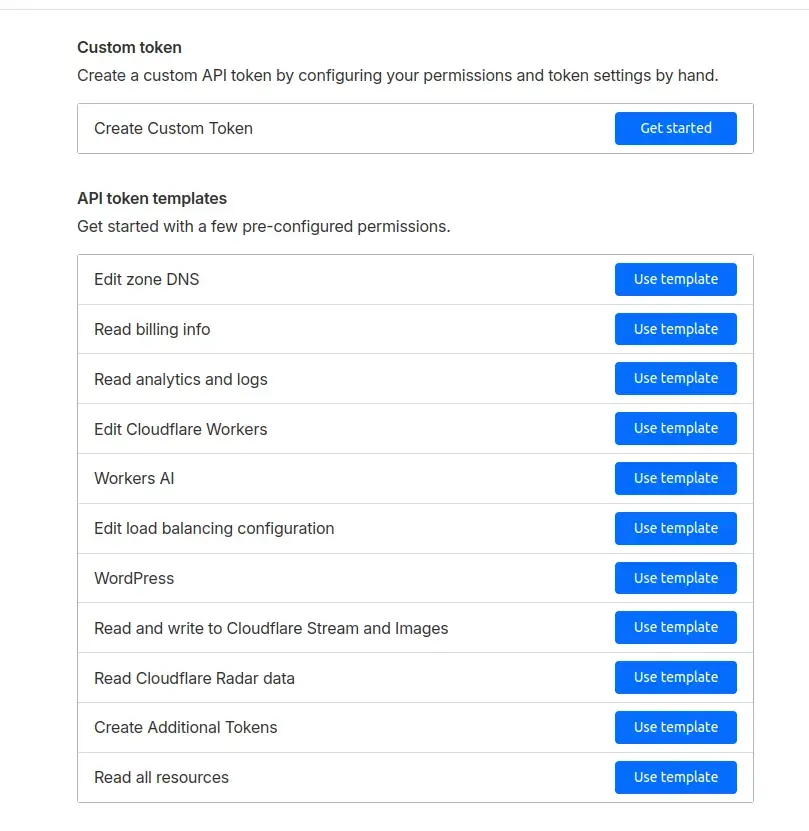
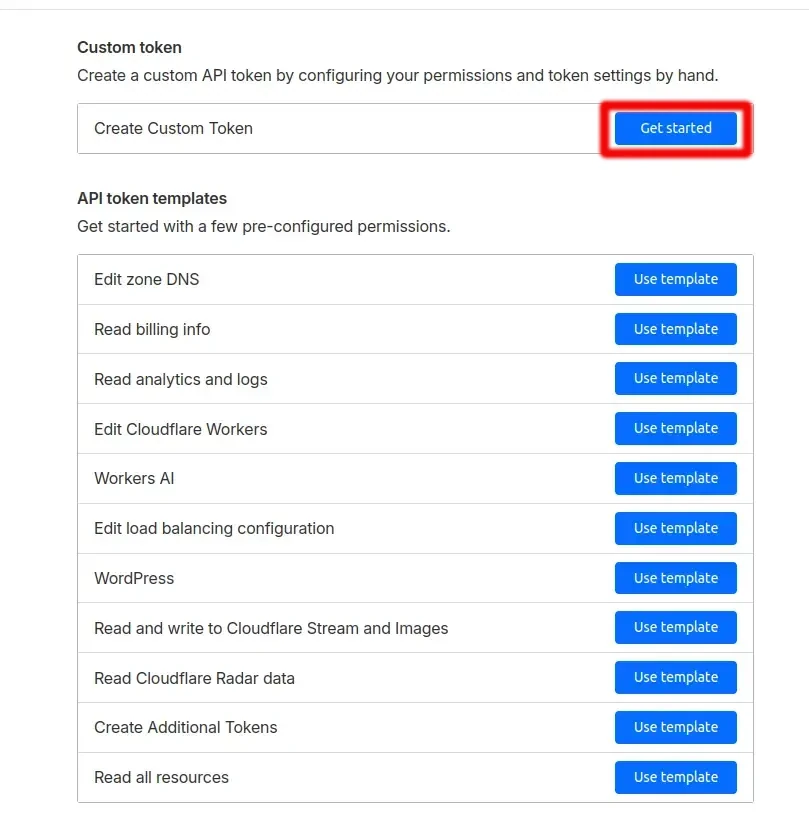
Added a TrueNAS acme certificate page

Changed region(s): [[0.7108, 0.1203, 0.958, 0.2106]]

diff --git a/_posts/2026-09-17-Lets-Encrypt-Certificate-for-TrueNAS-Scale.md b/_posts/2026-09-17-Lets-Encrypt-Certificate-for-TrueNAS-Scale.md
@@ -1,0 +1,99 @@
+---
+title: Lets Encrypt on TrueNAS Scale
+date: 2026-09-17
+draft: false
+categories: [Homelab, TrueNAS Scale, Lets Encrypt]
+tags: [homelab, truenas Scale, lets encrypt]     # TAG names should always be lowercase
+image: 
+   path: ../assets/img/posts/2026/2026-09-17-Lets-Encrypt-Certificates-for-TrueNAS/header.webp
+---
+
+## Introduction
+
+TrueNAS SCALE/Community Edition include the ability obtain a trusted TLS certificate from Let's Encrypt and keep it up to date automatically. If you meet the requirements below, this is probably the easiest way to keep an up-to-date, trusted certificate for your NAS.
+
+## Prerequisites
+
+1. You must own or control an actual publicly registered domain. That domain doesn't need to be accessible from the public Internet, but it must have public-facing DNS records. This guide will use example.com as a placeholder for your domain.
+2. The ability to add internal DNS records for your registered domain via your router, or your internal DNS setup. e.g _truenas.example.com_
+3. You must host your domain's DNS at Cloudflare. Cloudflare provides free DNS hosting, among many other services (not all of which are free).
+4. Your DNS provider matters because we're going to be obtaining certificates from Let's Encrypt, and that requires they validate your control over your domain.
+5. TrueNAS Scale needs to be on a fairly recent version such as 25.10.7 - Goldeye, you may find that it work fine on older version, as I've not tested that, so your milage may vary.
+
+## Instructions
+
+### Cloudflare API Token
+
+1. Go to [https://dash.cloudflare.com/profile/api-tokens](https://dash.cloudflare.com/profile/api-tokens)
+2. Click on your domain (if you have more than one)
+3. Click "Get API Token"
+4. Click on "Create Custom Token"
+
+![Custom API Token](../assets/img/posts/2026/2026-09-17-Lets-Encrypt-Certificates-for-TrueNAS/Custom_Token.webp)
+5. Set permissions
+
+    Zone:DNS:Edit
+
+![Use API Token](../assets/img/posts/2026/2026-09-17-Lets-Encrypt-Certificates-for-TrueNAS/Use_API_Token.webp)
+
+![Valid API token for Caddy](../assets/img/posts/2026/2026-09-17-Lets-Encrypt-Certificates-for-TrueNAS/Valid_API_Token.webp)
+
+__Take a Note__ of the _Cloudflare API Token_ as you will need it later when setting up TrueNAS.
+
+### Setting up TrueNAS
+
+1. Make sure to you do the following prep on your home network.
+   - Ensure you've allocated a static IP address to your TrueNAS server.
+   - Allocate a DNS name to your TrueNAS install e.g _truenas.example.com_.
+
+2. Change the general network settings (System -> Network -> Network Configuration -> Settings) on TrueNAS to reflect the setup above.
+![Global Settings](../assets/img/posts/2026/2026-09-17-Lets-Encrypt-Certificates-for-TrueNAS/Global_Settings.webp)
+3. In the TrueNAS Web UI, browse to Credentials -> Certificates.
+![Credentials Certificates](../assets/img/posts/2026/2026-09-17-Lets-Encrypt-Certificates-for-TrueNAS/Credentials-Certificates.webp)
+4. Next to ACME DNS-Authenticators, click Add.
+![Acme DNS-Authenticators](../assets/img/posts/2026/2026-09-17-Lets-Encrypt-Certificates-for-TrueNAS/ACME-DNS-Authenticator.webp)
+5. Name the authenticator as desired, and set Authenticator to match your DNS host. Then enter the required credentials, which will depend on your DNS host. For Cloudflare, enter your API Token. The token should have permissions of Zone / DNS / Edit for the domain you're requesting. The complete form will look like this.
+![Cloudflare API Token](../assets/img/posts/2026/2026-09-17-Lets-Encrypt-Certificates-for-TrueNAS/Add_DNS_Authenticator.webp)
+Click on Save
+
+6. Next, create a CSR. Next to Certificate Signing Requests, click Add.
+![Certificate Signing Request](../assets/img/posts/2026/2026-09-17-Lets-Encrypt-Certificates-for-TrueNAS/Certificate_Signing_Request.webp)
+
+Under Identifier and Type, enter a name as desired, leave the Type set to Certificate Signing Request, and set Profile to one of the HTTPS options.
+
+![Certificate Signing Request](../assets/img/posts/2026/2026-09-17-Lets-Encrypt-Certificates-for-TrueNAS/CSR_Fig_1.webp)
+
+![Certificate Signing Request](../assets/img/posts/2026/2026-09-17-Lets-Encrypt-Certificates-for-TrueNAS/CSR_Fig_2.webp)
+
+![Certificates Signing Request](../assets/img/posts/2026/2026-09-17-Lets-Encrypt-Certificates-for-TrueNAS/CSR_Fig_3.webp)
+
+![Certificates Signing Request](../assets/img/posts/2026/2026-09-17-Lets-Encrypt-Certificates-for-TrueNAS/CSR_Fig_4.webp)
+
+Click on __Next__, 5. Confirm Options then Save
+
+Now we can request the certificate itself. Click on the wrench to the right of your newly-created CSR
+![Create Acme Certificate](../assets/img/posts/2026/2026-09-17-Lets-Encrypt-Certificates-for-TrueNAS/Create_Acme_Certificate.webp)
+
+Fill in the form. Identifier can be anything you like. Check the box to accept the terms of service for your CA (Let's Encrypt's current TOS are [on their website](https://letsencrypt.org/documents/LE-SA-v1.6-August-18-2025.pdf). Set Renew Certificate Days to 30. This field controls when (i.e., how many days before expiration) TrueNAS begin trying to renew the certificate; Let's Encrypt recommends that renewal attempts begin when 1/3 of the certificate lifetime remains, which would mean 30 days.
+![Acme TrueNAS Certificate](../assets/img/posts/2026/2026-09-17-Lets-Encrypt-Certificates-for-TrueNAS/Acme_TrueNAS_Cert.webp)
+Under Domains, for each domain you've entered in the Subject Alternative Names field in the CSR, choose the ACME DNS authenticator you created above. Then click Save. Your certificate will be requested and, if successful, renewed automatically.
+
+## Configure your system
+
+Now that you've created the certificate, you'll need to configure your NAS to use it. Browse to System -> General Settings, and click Settings to the right of GUI.
+![General Settings](../assets/img/posts/2026/2026-09-17-Lets-Encrypt-Certificates-for-TrueNAS/General_Settings.webp)
+
+![GUI Settings](../assets/img/posts/2026/2026-09-17-Lets-Encrypt-Certificates-for-TrueNAS/GUI_Settings.webp)
+
+![Restart Web Services](../assets/img/posts/2026/2026-09-17-Lets-Encrypt-Certificates-for-TrueNAS/Restart_Web_Service.webp)
+
+If you've configured any other services to use a certificate (FTP would be the most likely candidate), set it to use the newly-created certificate as well. Browse to System -> Services, click the pencil next to the service in question, and set the correct certificate.
+
+Similarly, if you've configured any apps to use the previous certificate, you'll need to tell them to use the new one instead. Browse to Apps, select the app, and click Edit. Change the certificate setting to match the new one.
+
+## References
+
+- Dan's Wiki - [Let's Encrype Certificate for TrueNAS](https://wiki.familybrown.org/fester/maintain-truenas/letsencrypt-scale)
+- TrueNAS Website - [Instructions](https://www.truenas.com/docs/scale/credentials/certificates/settingupletsencryptcertificates/)
+- Lets Encrypt - [Website](https://letsencrypt.org/)
+- A review of [TrueNAS 25.10 Golden Eye](https://linuxiac.com/truenas-25-10-open-source-nas-released-with-nvme-of-zfs-enhancements/)
